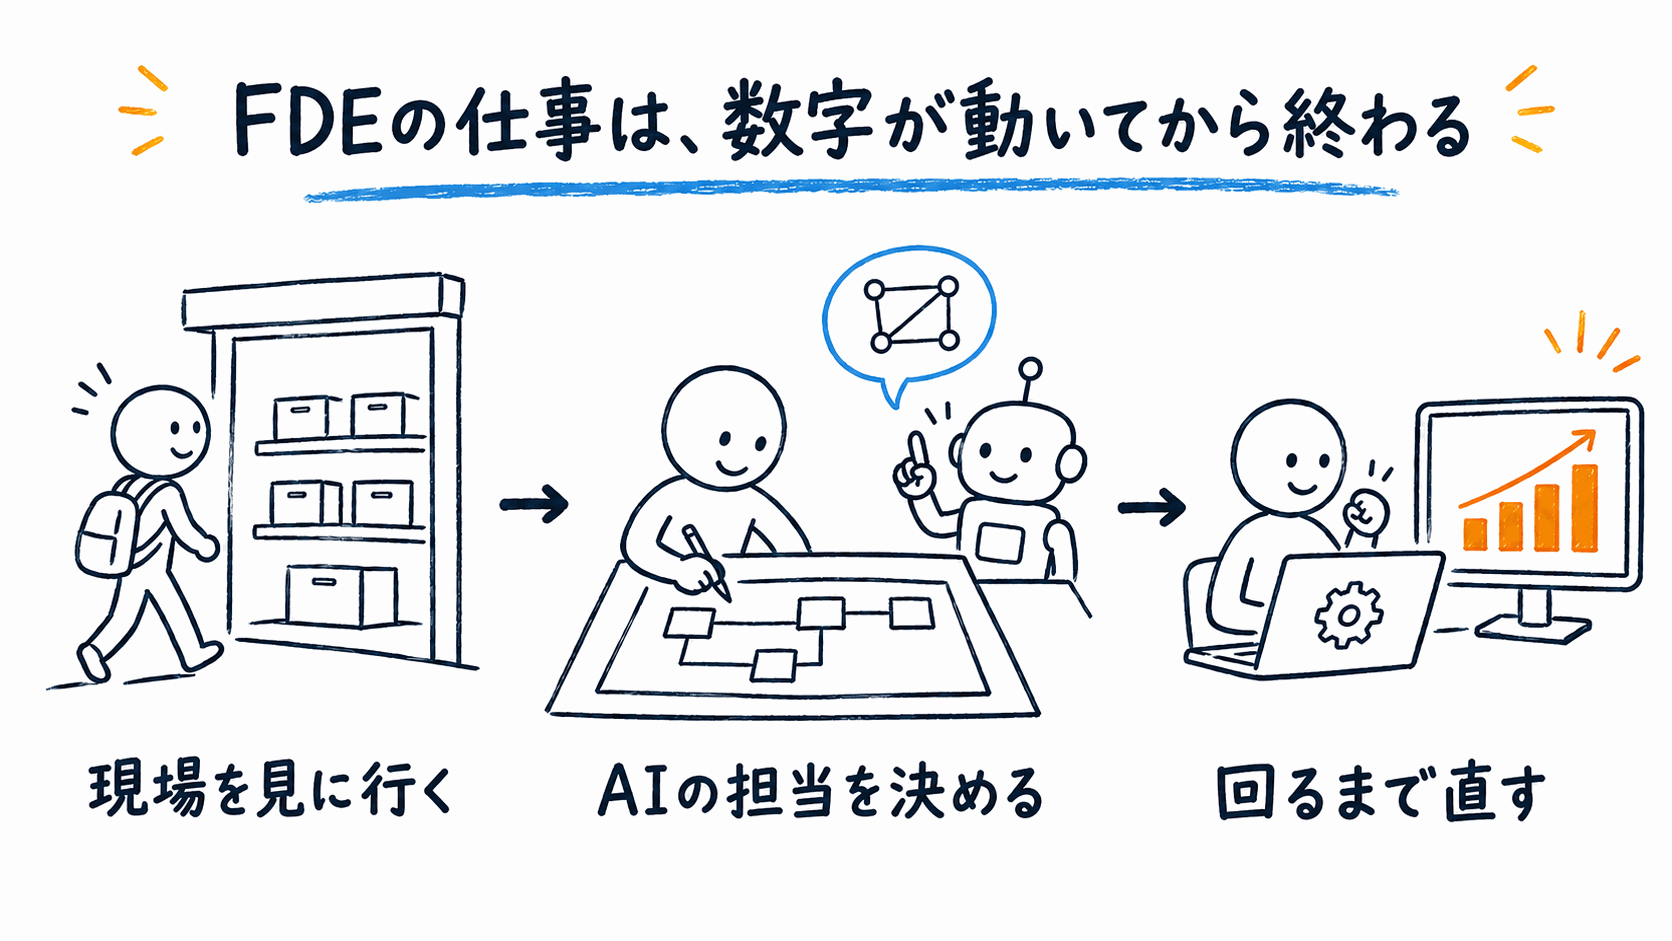
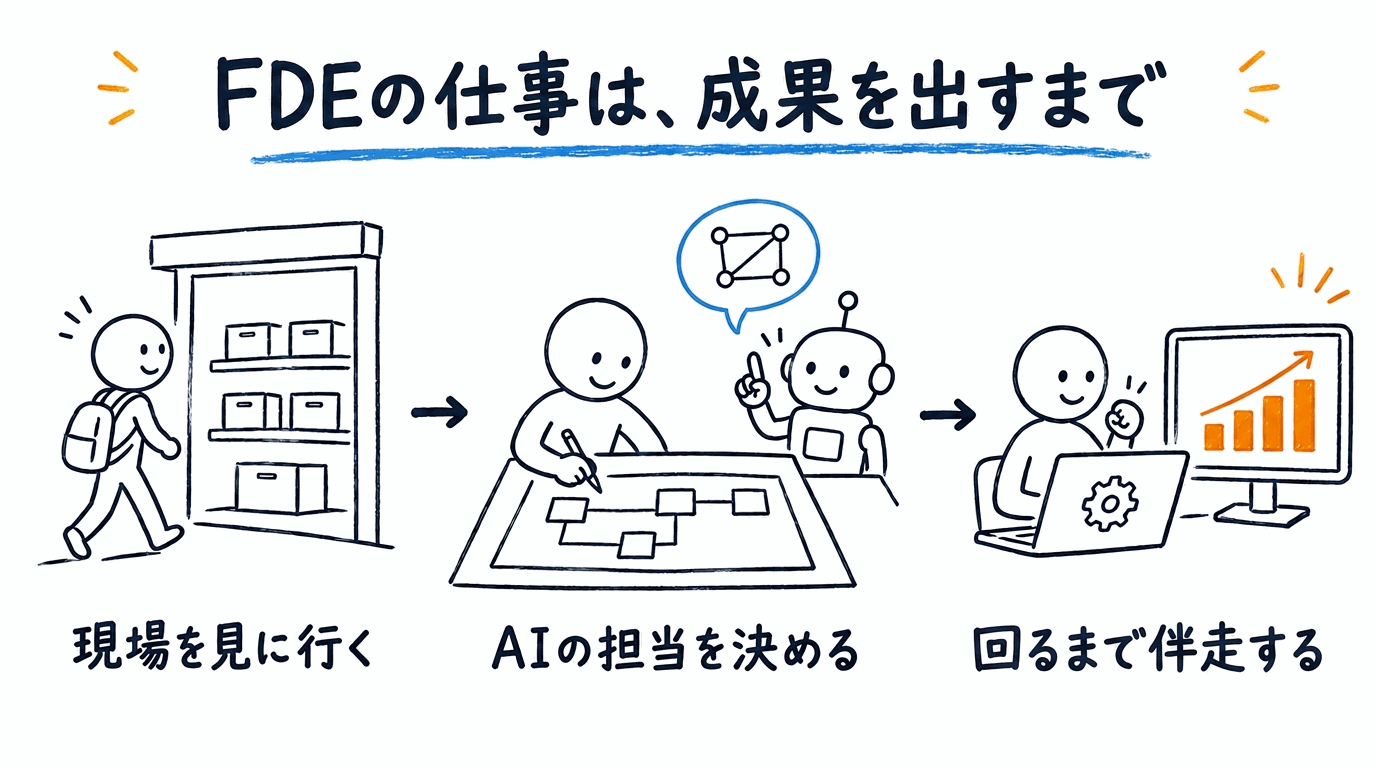
content: 図Aを「成果を出すまで／回るまで伴走する」に描き直し、研修実績にイメージ写真を追加

diff --git a/public/index.html b/public/index.html
@@ -351,12 +351,14 @@
               </div>
             </article>
             <article class="talk-card">
-<!-- ENGINEER_TRAINING_FIGURE -->
+              <figure class="talk-thumb">
+                <img src="assets/images/engineer-training.jpg" alt="社内研修で、若手エンジニア3名にAIを活用した開発の進め方を説明している場面のイメージ" width="1200" height="675">
+              </figure>
               <div class="talk-body">
                 <p class="achievement-label">Training</p>
                 <h3>松本市のシステム会社で、若手エンジニア向けAI活用研修を全5回</h3>
                 <p>若手エンジニア3名に、GitHub CopilotやCodexを使ったこれからのエンジニアリングを、全5回の研修で実務に落とし込みました。</p>
-                <!-- ENGINEER_TRAINING_NOTE -->
+                <p class="talk-note">写真はイメージです。</p>
               </div>
             </article>
           </div>
